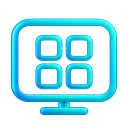
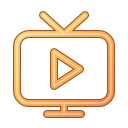
1.2.8

diff --git a/src/DzhiggaTV.App/SportsChannelPicker.xaml b/src/DzhiggaTV.App/SportsChannelPicker.xaml
@@ -28,7 +28,7 @@
    </Grid>
    <ComboBox x:Name="Category" Grid.Column="1" SelectionChanged="Category_Changed" ToolTip="Категория" AutomationProperties.Name="Категория каналов мультиэкрана"/>
   </Grid>
-  <Grid Grid.Row="1"><ListBox x:Name="Channels" BorderThickness="0" ScrollViewer.HorizontalScrollBarVisibility="Disabled" VirtualizingPanel.IsVirtualizing="True" VirtualizingPanel.VirtualizationMode="Recycling">
+  <Grid Grid.Row="1"><ListBox x:Name="Channels" BorderThickness="0" ScrollViewer.ScrollChanged="Channels_Scrolled" SizeChanged="Channels_SizeChanged" ScrollViewer.HorizontalScrollBarVisibility="Disabled" VirtualizingPanel.IsVirtualizing="True" VirtualizingPanel.VirtualizationMode="Recycling">
    <ListBox.ItemContainerStyle><Style TargetType="ListBoxItem"><Setter Property="HorizontalContentAlignment" Value="Stretch"/><Setter Property="Padding" Value="0"/><Setter Property="Margin" Value="0"/><Setter Property="Template"><Setter.Value><ControlTemplate TargetType="ListBoxItem"><ContentPresenter/></ControlTemplate></Setter.Value></Setter></Style></ListBox.ItemContainerStyle>
    <ListBox.ItemTemplate><DataTemplate><Border Padding="7,9" Margin="0,1" CornerRadius="7"><Border.Style><Style TargetType="Border"><Setter Property="Background" Value="Transparent"/><Style.Triggers><Trigger Property="IsMouseOver" Value="True"><Setter Property="Background" Value="{DynamicResource CardBrush}"/></Trigger></Style.Triggers></Style></Border.Style>
     <Grid><Grid.ColumnDefinitions><ColumnDefinition Width="26"/><ColumnDefinition/></Grid.ColumnDefinitions>
@@ -44,10 +44,10 @@
   </ListBox><TextBlock x:Name="Empty" Text="Каналы не найдены" Visibility="Collapsed" IsHitTestVisible="False" Foreground="{DynamicResource MutedBrush}" HorizontalAlignment="Center" VerticalAlignment="Center"/></Grid>
   </Grid>
   <Grid Grid.Column="2"><Grid.RowDefinitions><RowDefinition Height="Auto"/><RowDefinition/><RowDefinition Height="Auto"/></Grid.RowDefinitions>
-   <Grid Margin="0,0,0,12"><Grid.ColumnDefinitions><ColumnDefinition/><ColumnDefinition Width="Auto"/><ColumnDefinition Width="70"/></Grid.ColumnDefinitions>
+   <Grid Margin="0,0,0,12"><Grid.ColumnDefinitions><ColumnDefinition/><ColumnDefinition Width="Auto"/><ColumnDefinition Width="Auto"/></Grid.ColumnDefinitions>
     <TextBlock Text="Расположение" FontSize="16" FontWeight="SemiBold" VerticalAlignment="Center"/>
     <TextBlock Grid.Column="1" Text="Экранов" FontSize="12" Foreground="{DynamicResource MutedBrush}" VerticalAlignment="Center" Margin="8,0"/>
-    <ComboBox x:Name="ScreenCount" Grid.Column="2" SelectionChanged="ScreenCount_Changed" AutomationProperties.Name="Количество экранов"/>
+    <ComboBox x:Name="ScreenCount" Grid.Column="2" Width="84" SelectionChanged="ScreenCount_Changed" AutomationProperties.Name="Количество экранов"/>
    </Grid>
    <Border Grid.Row="1" Background="{DynamicResource PanelBrush}" BorderBrush="{DynamicResource BorderBrush}" BorderThickness="1" CornerRadius="12" Padding="8"><Grid x:Name="Scheme"/></Border>
    <TextBlock Grid.Row="2" Text="Перетащите на пустое место, чтобы добавить канал. Занятые экраны можно менять местами или заменять другим каналом." TextWrapping="Wrap" FontSize="11" Foreground="{DynamicResource MutedBrush}" Margin="0,12,0,0"/>

diff --git a/src/DzhiggaTV.App/SportsChannelPicker.xaml.cs b/src/DzhiggaTV.App/SportsChannelPicker.xaml.cs
@@ -4,6 +4,7 @@ using System.Windows.Data;
 using System.Windows.Input;
 using System.Windows.Media;
 using System.Windows.Media.Animation;
+using System.Windows.Threading;
 
 namespace DzhiggaTV.App;
 
@@ -15,9 +16,12 @@ public partial class SportsChannelPicker : Window
     private readonly MainViewModel _model;
     private readonly ListCollectionView _view;
     private bool _changing;
+    private bool _logosQueued, _closed;
     private Point _dragStart;
     private FrameworkElement? _dragSource;
     private ChannelDragCard? _dragCard;
+    private ChannelDragCard? _arrivalCard;
+    private Border? _arrivalTarget;
     private string? _dragId;
     private FrameworkElement? _lifted;
     private Border? _dropTarget;
@@ -40,14 +44,14 @@ public partial class SportsChannelPicker : Window
         ScreenCount.ItemsSource = Enumerable.Range(1, SportsSelection.MaximumChannels);
         Category.ItemsSource = new[] { "Все категории", "Избранное" }.Concat(_choices.Select(c => c.Channel.Group).Distinct().OrderBy(g => g)).ToArray();
         Category.SelectedIndex = 0; RefreshSelection();
-        Loaded += (_, _) => Search.Focus();
+        Loaded += (_, _) => { Search.Focus(); QueueVisibleLogos(); };
         // ListBox captures the mouse on press. Observe movement on the window so
         // a row can still start dragging after that capture redirects its events.
         PreviewMouseMove += Drag_Move;
         PreviewMouseLeftButtonDown += (_, _) => _dragSource = null;
         PreviewMouseLeftButtonUp += Drag_Up;
         LostMouseCapture += (_, _) => { if (_dragCard is not null && Mouse.Captured != this) CancelDrag(); };
-        Deactivated += (_, _) => CancelDrag(); Closed += (_, _) => CancelDrag();
+        Deactivated += (_, _) => CancelDrag(); Closed += (_, _) => { _closed = true; CancelDrag(); };
         PreviewKeyDown += (_, e) => { if (e.Key == Key.Escape && _dragCard is not null) { CancelDrag(); e.Handled = true; } };
     }
 
@@ -74,6 +78,7 @@ public partial class SportsChannelPicker : Window
         RenderScheme();
         // Request selected picons only, rather than the entire library.
         _model.LoadLogos(Selection);
+        QueueVisibleLogos();
     }
 
     private void RenderScheme()
@@ -145,6 +150,7 @@ public partial class SportsChannelPicker : Window
         e.Handled = true;
         Mouse.Capture(null);
         if (!Mouse.Capture(this, CaptureMode.SubTree)) return;
+        CancelArrival();
         _dragId = id; _lifted = source; _liftedOpacity = source.Opacity; source.Opacity = .3;
         _dragCard = new ChannelDragCard(channel, Animate); DragSurface.Children.Add(_dragCard);
         _previousCursor = Mouse.OverrideCursor; Mouse.OverrideCursor = Cursors.Hand;
@@ -168,13 +174,26 @@ public partial class SportsChannelPicker : Window
         if (_dragCard is null) return;
         FollowDrag(e.GetPosition(this));
         var id = _dragId; var position = _dropTarget?.Tag as int?;
+        var card = _dragCard;
+        Rect? destination = null;
+        if (_dropTarget is { } cell)
+        {
+            var center = cell.TranslatePoint(new(cell.ActualWidth / 2, cell.ActualHeight / 2), DragSurface);
+            destination = new Rect(center.X - cell.ActualWidth / 2, center.Y - cell.ActualHeight / 2, cell.ActualWidth, cell.ActualHeight);
+        }
         CancelDrag(); e.Handled = true;
-        if (id is not null && position is { } target) PlaceChannel(id, target);
+        if (id is null || position is not { } target || !PlaceChannel(id, target) || !Animate || destination is not { } bounds) return;
+        _arrivalCard = card; _arrivalTarget = Scheme.Children.OfType<Border>().Single(b => Equals(b.Tag, target));
+        _arrivalTarget.BeginAnimation(OpacityProperty, null); _arrivalTarget.Opacity = 0;
+        _arrivalTarget.BeginAnimation(OpacityProperty, new DoubleAnimation(0, 1, TimeSpan.FromMilliseconds(80)) { BeginTime = TimeSpan.FromMilliseconds(180) });
+        DragSurface.Children.Add(card);
+        card.GrowInto(bounds, () => { if (ReferenceEquals(_arrivalCard, card)) CancelArrival(); });
     }
 
     private void CancelDrag()
     {
         _dragSource = null;
+        CancelArrival();
         if (_dragCard is null) return;
         DragSurface.Children.Remove(_dragCard); _dragCard = null; _dragId = null;
         if (_lifted is not null) _lifted.Opacity = _liftedOpacity;
@@ -183,6 +202,33 @@ public partial class SportsChannelPicker : Window
         _dropTarget = null;
         Mouse.OverrideCursor = _previousCursor;
         if (Mouse.Captured == this) Mouse.Capture(null);
+    }
+
+    private void CancelArrival()
+    {
+        if (_arrivalCard is not null) DragSurface.Children.Remove(_arrivalCard);
+        _arrivalCard = null;
+        if (_arrivalTarget is not null) { _arrivalTarget.BeginAnimation(OpacityProperty, null); _arrivalTarget.Opacity = 1; }
+        _arrivalTarget = null;
+    }
+
+    private void Channels_Scrolled(object sender, ScrollChangedEventArgs e) => QueueVisibleLogos();
+    private void Channels_SizeChanged(object sender, SizeChangedEventArgs e) => QueueVisibleLogos();
+    private void QueueVisibleLogos()
+    {
+        if (_model is null || _logosQueued || _closed) return;
+        _logosQueued = true;
+        Dispatcher.BeginInvoke(DispatcherPriority.Loaded, new Action(() =>
+        {
+            _logosQueued = false;
+            if (_closed || !IsVisible || Channels.ActualWidth <= 0 || Channels.ActualHeight <= 0) return;
+            var viewport = new Rect(Channels.RenderSize);
+            var visible = MainWindow.FindVisualChildren<ListBoxItem>(Channels)
+                .Where(row => row.IsVisible && row.ActualHeight > 0 &&
+                    row.TransformToAncestor(Channels).TransformBounds(new Rect(row.RenderSize)).IntersectsWith(viewport))
+                .Select(row => row.DataContext).OfType<SportsChannelChoice>().Select(choice => choice.Channel).ToArray();
+            _model.LoadLogos(visible);
+        }));
     }
 
     private void HighlightSlot(Border slot, bool active)
@@ -228,6 +274,7 @@ public partial class SportsChannelPicker : Window
             (group is null or "Все категории" || (group == "Избранное" ? choice.Channel.IsFavorite : choice.Channel.Group == group)) &&
             (query.Length == 0 || choice.Channel.Name.Contains(query, StringComparison.CurrentCultureIgnoreCase));
         Empty.Visibility = _view.IsEmpty ? Visibility.Visible : Visibility.Collapsed;
+        QueueVisibleLogos();
     }
     private void Watch_Click(object sender, RoutedEventArgs e) { if (_layout.Count > 0) DialogResult = true; }
 }

diff --git a/src/DzhiggaTV.App/ChannelDragCard.cs b/src/DzhiggaTV.App/ChannelDragCard.cs
@@ -11,42 +11,55 @@ namespace DzhiggaTV.App;
 internal sealed class ChannelDragCard : Border
 {
     private readonly TranslateTransform _position = new();
+    private readonly ScaleTransform _scale = new(1, 1);
+    private readonly Image _logo;
+    private readonly TextBlock _title;
 
     public ChannelDragCard(ChannelItem channel, bool animate)
     {
-        Width = 248; Height = 88; Padding = new(12); CornerRadius = new(12);
+        Width = Height = 124; Padding = new(10); CornerRadius = new(12);
         BorderThickness = new(1.5); IsHitTestVisible = false; Opacity = .98;
         SetResourceReference(BackgroundProperty, "CardBrush");
         SetResourceReference(BorderBrushProperty, "AccentBrush");
         Effect = new DropShadowEffect { Color = Colors.Black, BlurRadius = 22, ShadowDepth = 7, Opacity = .4 };
-        var scale = new ScaleTransform(1, 1);
-        RenderTransform = new TransformGroup { Children = { scale, _position } };
-        RenderTransformOrigin = new(.16, .5);
-        var row = new Grid(); row.ColumnDefinitions.Add(new() { Width = GridLength.Auto }); row.ColumnDefinitions.Add(new()); Child = row;
-        var logo = new Image { Width = 62, Height = 56, Stretch = Stretch.Uniform, Margin = new(0, 0, 12, 0) };
+        RenderTransform = new TransformGroup { Children = { _scale, _position } };
+        RenderTransformOrigin = new(.5, .5);
+        var row = new StackPanel { VerticalAlignment = VerticalAlignment.Center }; Child = row;
+        var logo = _logo = new Image { Width = 62, Height = 56, Stretch = Stretch.Uniform, Margin = new(0, 0, 0, 8) };
         logo.SetBinding(Image.SourceProperty, new Binding(nameof(ChannelItem.LogoPath)) { Source = channel });
         var logoStyle = new Style(typeof(Image));
         var missing = new DataTrigger { Binding = new Binding(nameof(ChannelItem.LogoPath)) { Source = channel }, Value = null };
         missing.Setters.Add(new Setter(VisibilityProperty, Visibility.Collapsed)); logoStyle.Triggers.Add(missing); logo.Style = logoStyle;
         row.Children.Add(logo);
-        var text = new StackPanel { VerticalAlignment = VerticalAlignment.Center }; Grid.SetColumn(text, 1); row.Children.Add(text);
-        var number = new TextBlock { Text = $"КАНАЛ {channel.Number}", FontSize = 9, Margin = new(0, 0, 0, 4) };
-        number.SetResourceReference(TextBlock.ForegroundProperty, "AccentBrush"); text.Children.Add(number);
-        text.Children.Add(new TextBlock { Text = channel.Name, FontSize = 14, FontWeight = FontWeights.SemiBold, TextTrimming = TextTrimming.CharacterEllipsis });
+        _title = new TextBlock { Text = channel.Name, FontSize = 12, FontWeight = FontWeights.SemiBold, TextAlignment = TextAlignment.Center,
+            TextWrapping = TextWrapping.Wrap, MaxHeight = 34, TextTrimming = TextTrimming.CharacterEllipsis };
+        row.Children.Add(_title);
         if (animate)
         {
             var duration = TimeSpan.FromMilliseconds(140);
             var easing = new CubicEase { EasingMode = EasingMode.EaseOut };
-            scale.BeginAnimation(ScaleTransform.ScaleXProperty, new DoubleAnimation(.9, 1, duration) { EasingFunction = easing });
-            scale.BeginAnimation(ScaleTransform.ScaleYProperty, new DoubleAnimation(.9, 1, duration) { EasingFunction = easing });
+            _scale.BeginAnimation(ScaleTransform.ScaleXProperty, new DoubleAnimation(.9, 1, duration) { EasingFunction = easing });
+            _scale.BeginAnimation(ScaleTransform.ScaleYProperty, new DoubleAnimation(.9, 1, duration) { EasingFunction = easing });
             BeginAnimation(OpacityProperty, new DoubleAnimation(.45, .98, duration));
         }
     }
 
     public void Follow(Point pointer, Size bounds)
     {
-        // Keep the grabbed logo near the pointer and the card inside the chooser.
-        _position.X = Math.Clamp(pointer.X - 34, 4, Math.Max(4, bounds.Width - Width - 4));
-        _position.Y = Math.Clamp(pointer.Y - 34, 4, Math.Max(4, bounds.Height - Height - 4));
+        _position.X = Math.Clamp(pointer.X - Width / 2, 4, Math.Max(4, bounds.Width - Width - 4));
+        _position.Y = Math.Clamp(pointer.Y - Height / 2, 4, Math.Max(4, bounds.Height - Height - 4));
+    }
+
+    public void GrowInto(Rect target, Action completed)
+    {
+        _scale.BeginAnimation(ScaleTransform.ScaleXProperty, null); _scale.BeginAnimation(ScaleTransform.ScaleYProperty, null);
+        var duration = TimeSpan.FromMilliseconds(260);
+        DoubleAnimation To(double value) => new(value, duration) { EasingFunction = new CubicEase { EasingMode = EasingMode.EaseOut } };
+        BeginAnimation(WidthProperty, To(target.Width)); BeginAnimation(HeightProperty, To(target.Height));
+        _position.BeginAnimation(TranslateTransform.XProperty, To(target.X)); _position.BeginAnimation(TranslateTransform.YProperty, To(target.Y));
+        _logo.BeginAnimation(WidthProperty, To(80)); _logo.BeginAnimation(HeightProperty, To(64));
+        _title.BeginAnimation(TextBlock.FontSizeProperty, To(15)); _title.BeginAnimation(MaxHeightProperty, To(60));
+        var fade = new DoubleAnimation(.98, 0, TimeSpan.FromMilliseconds(80)) { BeginTime = TimeSpan.FromMilliseconds(180) };
+        fade.Completed += (_, _) => completed(); BeginAnimation(OpacityProperty, fade);
     }
 }

diff --git a/src/DzhiggaTV.App/ReleaseNotesWindow.cs b/src/DzhiggaTV.App/ReleaseNotesWindow.cs
@@ -23,13 +23,15 @@ public sealed class ReleaseNotesWindow : Window
         current.SetResourceReference(TextBlock.ForegroundProperty, "MutedBrush"); heading.Children.Add(current);
         DockPanel.SetDock(heading, Dock.Top); root.Children.Add(heading);
 
-        var footer = new StackPanel { Margin = new(0, 16, 0, 0) };
-        var status = new TextBlock { FontSize = 11, TextWrapping = TextWrapping.Wrap, Margin = new(3, 0, 3, 8), Visibility = Visibility.Collapsed };
+        var footer = new Grid { Margin = new(0, 16, 0, 0) };
+        footer.ColumnDefinitions.Add(new()); footer.ColumnDefinitions.Add(new() { Width = GridLength.Auto });
+        var status = new TextBlock { FontSize = 11, TextWrapping = TextWrapping.Wrap, Margin = new(3, 0, 14, 0), VerticalAlignment = VerticalAlignment.Center, Visibility = Visibility.Collapsed };
         status.SetResourceReference(TextBlock.ForegroundProperty, "MutedBrush");
         System.Windows.Automation.AutomationProperties.SetName(status, "Результат проверки обновлений");
         System.Windows.Automation.AutomationProperties.SetLiveSetting(status, System.Windows.Automation.AutomationLiveSetting.Polite);
         footer.Children.Add(status);
         var buttons = new StackPanel { Orientation = Orientation.Horizontal, HorizontalAlignment = HorizontalAlignment.Right };
+        Grid.SetColumn(buttons, 1);
         var check = new Button { Content = "Проверить обновления", MinWidth = 190 };
         check.SetResourceReference(BorderBrushProperty, "AccentBrush");
         System.Windows.Automation.AutomationProperties.SetName(check, "Проверить обновления");
@@ -64,6 +66,7 @@ public sealed class ReleaseNotesWindow : Window
         var notes = new StackPanel();
         (string Version, string Summary)[] releases =
         [
+            ("1.2.8", "«Каналы» получили янтарный телевизор, «Телепрограмма» — фиолетовый лист расписания с часами; зелёный «Мультиэкран» сохранён. Иконки больше не остаются цветными после клика и закрытия окна. Сообщение об актуальной версии перенесено слева от кнопки. В выборе мультиэкрана исправлено обрезанное поле числа экранов и добавлена загрузка логотипов видимых каналов при открытии, поиске и прокрутке. Переносимая карточка стала квадратной и плавно вырастает до размера ячейки."),
             ("1.2.7", "При ручной проверке без новых выпусков рядом с кнопкой появляется надпись «Версия актуальна. Новых версий не найдено», без отдельного окна. В выборе каналов «Мультиэкрана» карточка с логотипом следует за мышью, место назначения плавно подсвечивается, а перенос завершается мягкой анимацией. Логотипы в схеме увеличены, названия стали крупнее и полужирными. Учитывается настройка сокращения анимаций."),
             ("1.2.6", "Выбор каналов «Мультиэкрана» дополнен схемой: перетаскивайте каналы на нужные места, меняйте экраны местами или заменяйте канал. Галочки заполняют свободные места, кнопка «Сброс» снимает весь выбор. Расположение и пустые ячейки сохраняются. Одновременно можно смотреть до четырёх каналов в сетке 2 × 2; прежние большие наборы автоматически сокращаются."),
             ("1.2.5", "«Мультиэкран» открывается с тем же количеством экранов, которое было при последнем использовании. Текущий канал основного плеера занимает первое место и получает звук: если его не было в наборе, он заменяет прежний первый канал. При первом запуске с текущим каналом открывается один экран без автоматического окна выбора; добавлять и убирать каналы можно кнопкой «Выбрать каналы»."),

diff --git a/tests/DzhiggaTV.Sports.SmokeTests/Program.cs b/tests/DzhiggaTV.Sports.SmokeTests/Program.cs
@@ -4,6 +4,7 @@ using System.Text.Json;
 using System.Windows;
 using System.Windows.Controls;
 using System.Windows.Media;
+using System.Windows.Media.Imaging;
 using DzhiggaTV.App;
 using DzhiggaTV.Core;
 using DzhiggaTV.Player;
@@ -35,7 +36,13 @@ internal static class Program
     }
     private static async Task SeedAsync(string profile, string media)
     {
-        var channels = Enumerable.Range(1, 10).Select(i => new Channel("sport-" + i, "local", "Спортивный канал " + i, i <= 5 ? "Спорт" : "Другие", Path.GetFullPath(media), Order: i - 1)).ToArray();
+        Directory.CreateDirectory(profile);
+        string logo = Path.Combine(profile, "fixture-logo.png");
+        var encoder = new PngBitmapEncoder();
+        encoder.Frames.Add(BitmapFrame.Create(BitmapSource.Create(2, 2, 96, 96, PixelFormats.Bgra32, null,
+            Enumerable.Repeat(new byte[] { 205, 217, 99, 255 }, 4).SelectMany(p => p).ToArray(), 8)));
+        using (var output = File.Create(logo)) encoder.Save(output);
+        var channels = Enumerable.Range(1, 10).Select(i => new Channel("sport-" + i, "local", "Спортивный канал " + i, i <= 5 ? "Спорт" : "Другие", Path.GetFullPath(media), Logo: logo, Order: i - 1)).ToArray();
         using var store = new SqliteStore(Path.Combine(profile, "library.db"));
         await store.InitializeAsync(); await store.SavePlaylistAsync(new("local", "Sports smoke", "local-only.m3u"), channels);
         var state = new UserState();
@@ -93,6 +100,7 @@ internal static class Program
             var finalChannels = main.Model.AllChannels.Take(4).Reverse().ToArray();
             sports.SetChannels(finalChannels); sports.SelectAudio("sport-3");
             await WaitAsync(() => Tiles(sports).All(Playing));
+            foreach (var channel in main.Model.AllChannels.Where(c => !finalChannels.Contains(c))) main.Model.InvalidateLogo(channel.Id);
             _ = sports.Dispatcher.BeginInvoke(new Action(() => Descendants<Button>(sports).Single(b => Equals(b.Content, "Выбрать каналы")).RaiseEvent(new RoutedEventArgs(Button.ClickEvent))));
             await WaitAsync(() => Application.Current.Windows.OfType<SportsChannelPicker>().Any());
             var picker = Application.Current.Windows.OfType<SportsChannelPicker>().Single();
@@ -100,6 +108,8 @@ internal static class Program
             var chooserChannels = (ListBox)picker.FindName("Channels");
             var search = (TextBox)picker.FindName("Search");
             var choices = chooserChannels.Items.Cast<SportsChannelChoice>().ToArray();
+            await WaitAsync(() => main.Model.AllChannels.Single(c => c.Id == "sport-5").LogoPath is not null);
+            Check(!choices.Single(c => c.Channel.Id == "sport-5").IsSelected, "An unselected visible channel loads its logo without being checked");
             Check(((ComboBox)picker.FindName("ScreenCount")).Items.Cast<int>().SequenceEqual([1, 2, 3, 4]), "Only one to four screens are offered");
             var fifthCheckbox = Descendants<CheckBox>(picker).Single(c => c.DataContext is SportsChannelChoice choice && choice.Channel.Id == "sport-5");
             fifthCheckbox.SetCurrentValue(System.Windows.Controls.Primitives.ToggleButton.IsCheckedProperty, true);
@@ -111,6 +121,14 @@ internal static class Program
             Check(choices.All(c => !c.IsSelected) && !((Button)picker.FindName("Watch")).IsEnabled && scheme.Children.Count == 4,
                 "Reset clears even filtered-out checkboxes and preserves four empty positions");
             search.Clear();
+            var tenth = choices.Single(c => c.Channel.Id == "sport-10");
+            main.Model.InvalidateLogo(tenth.Channel.Id); chooserChannels.ScrollIntoView(tenth);
+            await WaitAsync(() => tenth.Channel.LogoPath is not null);
+            Check(!tenth.IsSelected, "Scrolling the picker loads newly visible channel logos without selecting them");
+            main.Model.InvalidateLogo(tenth.Channel.Id); search.Text = tenth.Channel.Name;
+            await WaitAsync(() => tenth.Channel.LogoPath is not null);
+            Check(chooserChannels.Items.Count == 1, "Search refreshes logos for its own visible results");
+            search.Clear(); chooserChannels.ScrollIntoView(choices[0]);
             void Drop(string id, int slot)
             {
                 if (!picker.PlaceChannel(id, slot)) throw new InvalidOperationException("Channel placement failed.");

diff --git a/src/DzhiggaTV.App/NavigationIcon.cs b/src/DzhiggaTV.App/NavigationIcon.cs
@@ -1,5 +1,6 @@
 using System.Windows;
 using System.Windows.Controls;
+using System.Windows.Input;
 using System.Windows.Media;
 using System.Windows.Media.Animation;
 using System.Windows.Media.Imaging;
@@ -18,6 +19,8 @@ public sealed class NavigationIcon : Grid
     private readonly ScaleTransform _scale = new(1, 1);
     private readonly RotateTransform _rotation = new();
     private Button? _button;
+    private Window? _window;
+    private bool _keyboardNavigation;
     private bool _suppressHighlight;
     static NavigationIcon()
     {
@@ -33,16 +36,33 @@ public sealed class NavigationIcon : Grid
         RenderOptions.SetBitmapScalingMode(this, BitmapScalingMode.HighQuality);
         Loaded += (_, _) =>
         {
+            Detach();
             _button = FindButton(this);
             if (_button is null) return;
             _button.MouseEnter += Enter; _button.MouseLeave += Leave;
-            _button.IsKeyboardFocusWithinChanged += FocusChanged; Animate(_button.IsMouseOver || _button.IsKeyboardFocusWithin);
+            _button.IsKeyboardFocusWithinChanged += FocusChanged;
+            _window = Window.GetWindow(this);
+            if (_window is not null)
+            {
+                _window.PreviewKeyDown += KeyPressed; _window.PreviewMouseDown += PointerPressed;
+                _window.Activated += Activated; _window.Deactivated += Deactivated;
+            }
+            Refresh();
         };
-        Unloaded += (_, _) =>
+        Unloaded += (_, _) => Detach();
+    }
+    private void Detach()
+    {
+        if (_button is not null)
         {
-            if (_button is null) return;
             _button.MouseEnter -= Enter; _button.MouseLeave -= Leave; _button.IsKeyboardFocusWithinChanged -= FocusChanged; _button = null;
-        };
+        }
+        if (_window is not null)
+        {
+            _window.PreviewKeyDown -= KeyPressed; _window.PreviewMouseDown -= PointerPressed;
+            _window.Activated -= Activated; _window.Deactivated -= Deactivated; _window = null;
+        }
+        _keyboardNavigation = false;
     }
     private static Button? FindButton(DependencyObject item)
     {
@@ -60,15 +80,27 @@ public sealed class NavigationIcon : Grid
         var icon = (NavigationIcon)sender;
         // A second click must visibly clear the star even while the pointer is still over it.
         icon._suppressHighlight = !(bool)e.NewValue;
-        icon.Animate(icon._button?.IsMouseOver == true || icon._button?.IsKeyboardFocusWithin == true);
+        icon.Refresh();
     }
-    private void Enter(object sender, System.Windows.Input.MouseEventArgs e) { _suppressHighlight = false; Animate(true); }
-    private void Leave(object sender, System.Windows.Input.MouseEventArgs e) => Animate(_button?.IsKeyboardFocusWithin == true);
+    private void Enter(object sender, MouseEventArgs e) { _suppressHighlight = false; Refresh(); }
+    private void Leave(object sender, MouseEventArgs e) => Refresh();
     private void FocusChanged(object sender, DependencyPropertyChangedEventArgs e)
     {
-        if ((bool)e.NewValue) _suppressHighlight = false;
-        Animate(_button?.IsMouseOver == true || _button?.IsKeyboardFocusWithin == true);
+        if ((bool)e.NewValue && _keyboardNavigation) _suppressHighlight = false;
+        Refresh();
     }
+    private void KeyPressed(object sender, KeyEventArgs e)
+    {
+        if (e.Key != Key.Tab && !(_button?.IsKeyboardFocusWithin == true && e.Key is Key.Enter or Key.Space)) return;
+        _keyboardNavigation = true; _suppressHighlight = false; Refresh();
+    }
+    private void PointerPressed(object sender, MouseButtonEventArgs e) { _keyboardNavigation = false; Refresh(); }
+    private void Activated(object? sender, EventArgs e) => Refresh();
+    private void Deactivated(object? sender, EventArgs e) { _keyboardNavigation = false; Refresh(); }
+    // A click may leave keyboard focus on the launcher after its dialog closes.
+    // Highlight keyboard focus only when the user actually navigates with keys.
+    private void Refresh() => Animate(_window?.IsActive != false &&
+        (_button?.IsMouseOver == true || _keyboardNavigation && _button?.IsKeyboardFocusWithin == true));
     private void Animate(bool active)
     {
         var owner = Window.GetWindow(this);

diff --git a/docs/UPDATES.md b/docs/UPDATES.md
@@ -2,7 +2,7 @@
 
 Начиная с 1.0.13 плеер проверяет публичные стабильные Releases репозитория `adrugalev/DzhiggaTV` при запуске, раз в 15 минут и при возвращении в окно (не чаще раза в 5 минут). Проверка выполняется в фоне. При ошибке сети просмотр продолжается без всплывающих сообщений.
 
-Если вышла новая версия, блок номера версии получает бирюзовую подсветку, подпись «ОБНОВЛЕНИЕ» и стрелку. Нажатие открывает описание выпуска с GitHub и кнопку «Обновить и перезапустить». Обычное нажатие без доступного обновления открывает историю версий. В истории всегда есть кнопка «Проверить обновления» для немедленной проверки, независимо от фонового интервала. С версии 1.2.7 проверка проходит в этом же окне: при отсутствии обновлений под списком появляется небольшая надпись «Версия актуальна. Новых версий не найдено». Окно загрузки открывается только при обнаружении новой версии. Ошибка сети показывается рядом с кнопкой и не выдаётся за отсутствие обновлений; закрытие истории отменяет незавершённую проверку.
+Если вышла новая версия, блок номера версии получает бирюзовую подсветку, подпись «ОБНОВЛЕНИЕ» и стрелку. Нажатие открывает описание выпуска с GitHub и кнопку «Обновить и перезапустить». Обычное нажатие без доступного обновления открывает историю версий. В истории всегда есть кнопка «Проверить обновления» для немедленной проверки, независимо от фонового интервала. С версии 1.2.7 проверка проходит в этом же окне: при отсутствии обновлений появляется небольшая надпись «Версия актуальна. Новых версий не найдено»; с 1.2.8 она размещена слева от кнопки. Окно загрузки открывается только при обнаружении новой версии. Ошибка сети показывается рядом с кнопкой и не выдаётся за отсутствие обновлений; закрытие истории отменяет незавершённую проверку.
 
 Загрузка показывает проценты и мегабайты, её можно отменить. Текущий просмотр продолжается до окончания загрузки. Установщик запускается только после проверки размера, SHA-256 и соответствия его версии тегу выпуска. Затем плеер сохраняет настройки, закрывается, отдельный установщик ждёт завершения именно этого процесса, заменяет приложение и открывает новую версию с прежней папкой данных. Пароли, плейлисты и другие пользовательские данные на GitHub не отправляются.
 
